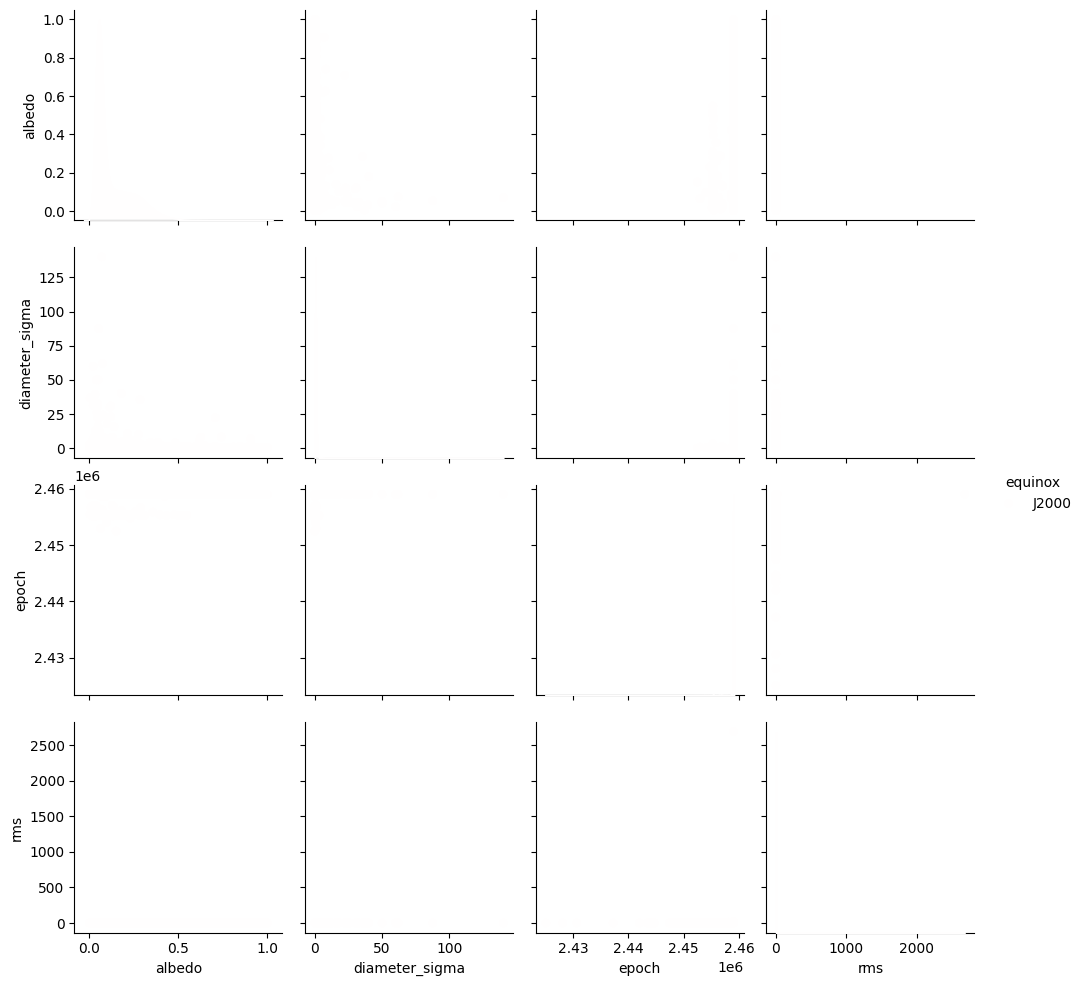
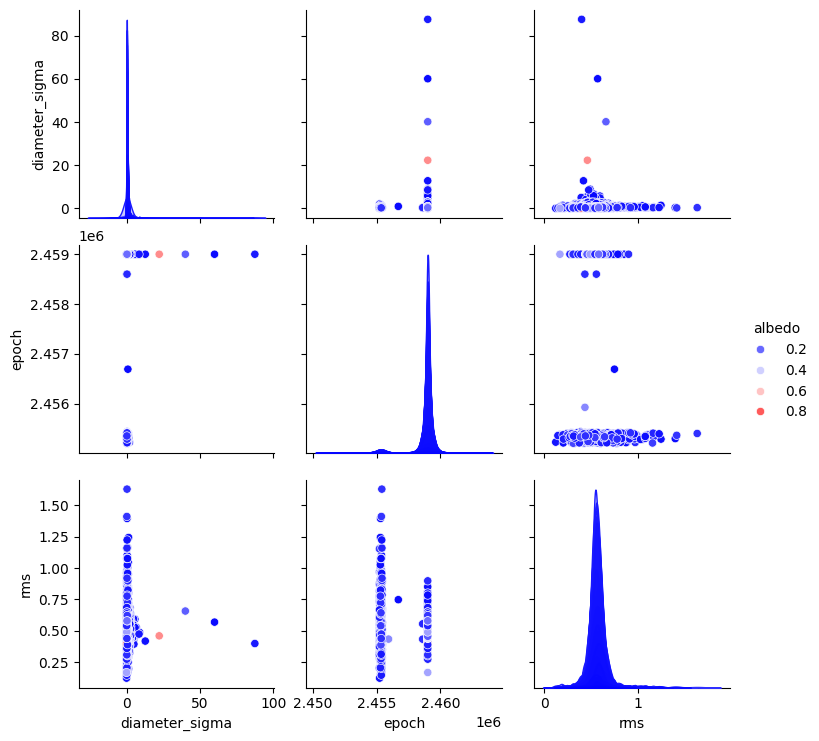
+ asteroid plots

diff --git a/data-asteroid_plotting.py b/data-asteroid_plotting.py
@@ -25,10 +25,8 @@ need_dtypes = read_types("./data/asteroid/dtypes.json")
 dataset = pd.read_csv("./data/asteroid/df_sub.csv", usecols=lambda x: x in need_dtypes.keys(), dtype=need_dtypes)
 
 # График 1. Гистограмма по class
-#plt.figure(figsize=(30,5))
-#sort_dow = dataset['class'].sort_index()
-#plot = sort_dow.hist()
-#plot.get_figure().savefig("./data/asteroid/plots/plot1.png")
+#plot = dataset['class'].value_counts().plot(kind='bar', title='class')
+#plot.figure.savefig("./data/asteroid/plots/plot1.png")
 
 # График 2. Скатерограмма по признаку albedo
 #fig = plt.figure(figsize=(15,15))
@@ -36,12 +34,19 @@ dataset = pd.read_csv("./data/asteroid/df_sub.csv", usecols=lambda x: x in need_
 #             hue ='albedo',
 #             palette = 'bwr',).savefig("./data/asteroid/plots/plot2.png")
 
+
+# График 3
+#plt.figure(figsize=(20, 10))
+#plot = dataset['orbit_id'].value_counts().loc[lambda x : x > 2000].plot(kind='bar', title='class')
+#plt.title("orbit_id")
+#plot.figure.savefig("./data/asteroid/plots/plot3.png")
+
 # График 4. 
 #copy = dataset.copy()
 #copy.pop('class')
 #copy.pop("orbit_id")
 #copy.pop("equinox")
-#opy.pop("name")
+#copy.pop("name")
 #copy.pop("pdes")
 #copy.pop("id")
 
@@ -52,6 +57,6 @@ dataset = pd.read_csv("./data/asteroid/df_sub.csv", usecols=lambda x: x in need_
 
 # График 5. Скатерограмма по признаку equinox
 fig = plt.figure(figsize=(15,15))
-sns.pairplot(data = dataset,
-             hue ='equinox',
+sns.pairplot(data = dataset.sample(100000),
+             hue ='albedo',
              palette = 'bwr',).savefig("./data/asteroid/plots/plot5.png")
